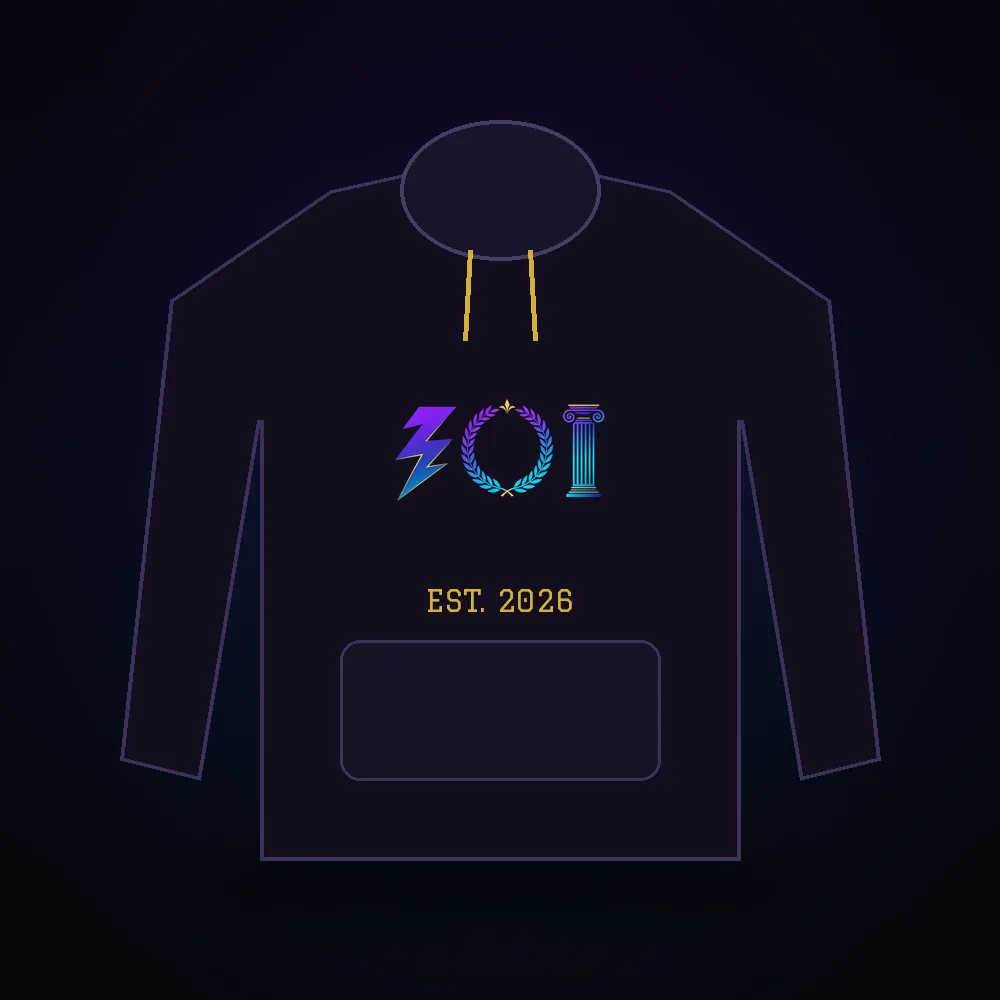
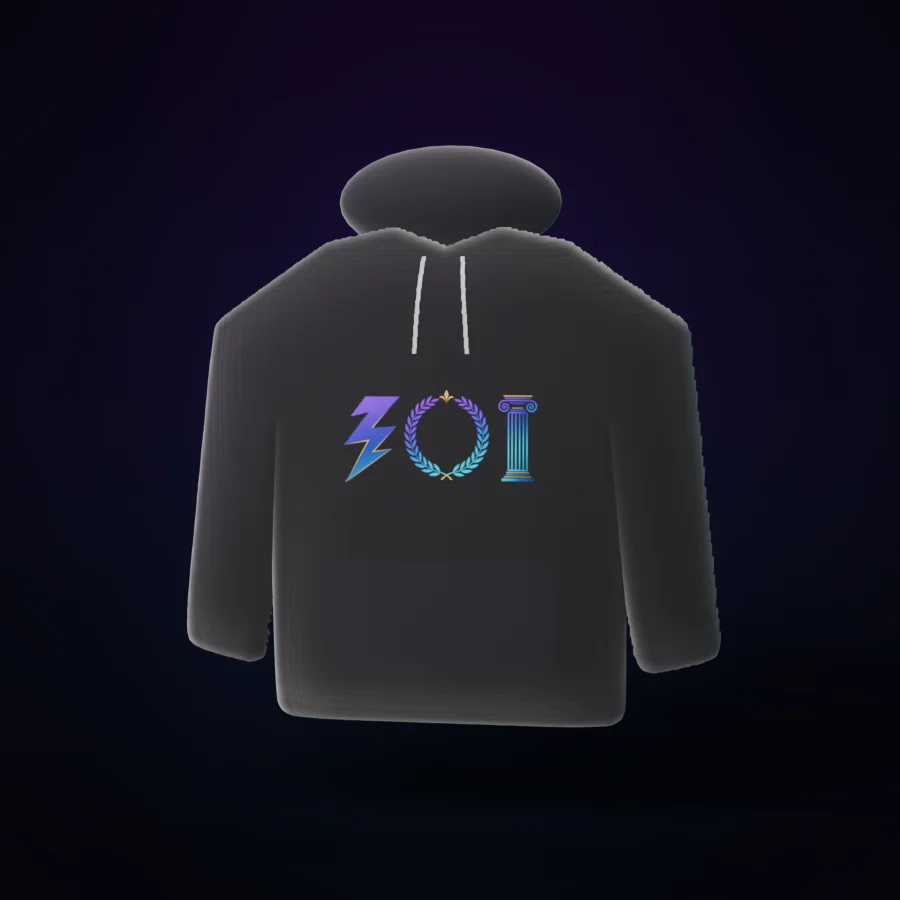
Shop: 3D-rendered product previews with real crest

diff --git a/public/shop.html b/public/shop.html
@@ -17,16 +17,16 @@
 <section class="shop-hero"><span class="est">EST. 2026</span><h2>The ZOI Shop</h2><p class="tag">Zero builds. All life. Official merch is on the way.</p></section>
 <div class="stripes" aria-hidden="true"></div>
 <section><div class="cards three products">
- <div class="card product flagship"><img src="/assets/shop/letterman.webp" alt="ZOI Letterman Jacket mockup" width="1000" height="1000"><div class="info"><span class="badge">Flagship</span><h3>ZOI Letterman Jacket</h3><p>The iconic piece. Black wool body, cream leather sleeves, gold-and-cyan striped rib collar, cuffs and waistband, chenille crest patch and EST. 2026 on the chest.</p><p class="price">Price TBA</p><button class="btn" type="button" disabled>Coming soon</button></div></div>
+ <div class="card product flagship"><img src="/assets/shop/letterman.webp" alt="ZOI Letterman Jacket mockup" width="1000" height="1000"><div class="info"><span class="badge">Flagship</span><h3>ZOI Letterman Jacket</h3><p>The iconic piece. Black wool body, cream leather sleeves, gold-and-cyan striped rib collar, cuffs and waistband, and a chenille-style crest patch on the chest.</p><p class="price">Price TBA</p><button class="btn" type="button" disabled>Coming soon</button></div></div>
  <div class="card product"><img src="/assets/shop/jersey.webp" alt="ZOI Pro Jersey mockup" width="1000" height="1000" loading="lazy"><h3>ZOI Pro Jersey</h3><p>The match-day kit. Crest up front, gold collar, cyan trim.</p><p class="price">Price TBA</p><button class="btn" type="button" disabled>Coming soon</button></div>
- <div class="card product"><img src="/assets/shop/hoodie.webp" alt="Crest Hoodie mockup" width="1000" height="1000" loading="lazy"><h3>Crest Hoodie</h3><p>Heavyweight black hoodie with the ZOI crest and EST. 2026.</p><p class="price">Price TBA</p><button class="btn" type="button" disabled>Coming soon</button></div>
- <div class="card product"><img src="/assets/shop/tee.webp" alt="Varsity Tee mockup" width="1000" height="1000" loading="lazy"><h3>Varsity Tee</h3><p>Clean white tee — ZOI wordmark and "Zero builds. All life."</p><p class="price">Price TBA</p><button class="btn" type="button" disabled>Coming soon</button></div>
- <div class="card product"><img src="/assets/shop/longsleeve.webp" alt="ZOI Varsity Long Sleeve mockup" width="1000" height="1000" loading="lazy"><h3>ZOI Varsity Long Sleeve</h3><p>Black long sleeve with gold wordmark and EST. 2026 sleeve print.</p><p class="price">Price TBA</p><button class="btn" type="button" disabled>Coming soon</button></div>
+ <div class="card product"><img src="/assets/shop/hoodie.webp" alt="Crest Hoodie mockup" width="1000" height="1000" loading="lazy"><h3>Crest Hoodie</h3><p>Heavyweight black hoodie with the full-color ZOI crest.</p><p class="price">Price TBA</p><button class="btn" type="button" disabled>Coming soon</button></div>
+ <div class="card product"><img src="/assets/shop/tee.webp" alt="Varsity Tee mockup" width="1000" height="1000" loading="lazy"><h3>Varsity Tee</h3><p>Clean white tee with the full-color ZOI crest.</p><p class="price">Price TBA</p><button class="btn" type="button" disabled>Coming soon</button></div>
+ <div class="card product"><img src="/assets/shop/longsleeve.webp" alt="ZOI Varsity Long Sleeve mockup" width="1000" height="1000" loading="lazy"><h3>ZOI Varsity Long Sleeve</h3><p>Black long sleeve with the ZOI crest and striped sleeve accents.</p><p class="price">Price TBA</p><button class="btn" type="button" disabled>Coming soon</button></div>
  <div class="card product"><img src="/assets/shop/cap.webp" alt="Snapback Cap mockup" width="1000" height="1000" loading="lazy"><h3>Snapback Cap</h3><p>Structured black snapback with the embroidered crest.</p><p class="price">Price TBA</p><button class="btn" type="button" disabled>Coming soon</button></div>
- <div class="card product"><img src="/assets/shop/mousepad.webp" alt="Desk Mousepad mockup" width="1000" height="1000" loading="lazy"><h3>Desk Mousepad</h3><p>Extended desk pad in violet-to-cyan with the full crest.</p><p class="price">Price TBA</p><button class="btn" type="button" disabled>Coming soon</button></div>
- <div class="card product"><img src="/assets/shop/tumbler.webp" alt="ZOI Insulated Tumbler mockup" width="1000" height="1000" loading="lazy"><h3>ZOI Insulated Tumbler</h3><p>40 oz stainless tumbler with handle and straw lid, crest engraved.</p><p class="price">Price TBA</p><button class="btn" type="button" disabled>Coming soon</button></div>
+ <div class="card product"><img src="/assets/shop/mousepad.webp" alt="Desk Mousepad mockup" width="1000" height="1000" loading="lazy"><h3>Desk Mousepad</h3><p>Desk pad in a violet-to-cyan fade with the full crest.</p><p class="price">Price TBA</p><button class="btn" type="button" disabled>Coming soon</button></div>
+ <div class="card product"><img src="/assets/shop/tumbler.webp" alt="ZOI Insulated Tumbler mockup" width="1000" height="1000" loading="lazy"><h3>ZOI Insulated Tumbler</h3><p>40 oz insulated tumbler with handle and straw lid, crest printed on the front.</p><p class="price">Price TBA</p><button class="btn" type="button" disabled>Coming soon</button></div>
  <div class="card product"><img src="/assets/shop/coin.webp" alt="ZOI Crest Coin mockup, front and back" width="1000" height="1000" loading="lazy"><h3>ZOI Crest Coin</h3><p>Heavyweight flip coin. Crest on the face, motto on the back. Built for queue time.</p><p class="price">Price TBA</p><button class="btn" type="button" disabled>Coming soon</button></div>
- <div class="card product"><img src="/assets/shop/stickers.webp" alt="Sticker Pack mockup" width="1000" height="1000" loading="lazy"><h3>Sticker Pack</h3><p>Crest, wordmark and ζωή die-cut stickers.</p><p class="price">Price TBA</p><button class="btn" type="button" disabled>Coming soon</button></div>
+ <div class="card product"><img src="/assets/shop/stickers.webp" alt="Sticker Pack mockup" width="1000" height="1000" loading="lazy"><h3>Sticker Pack</h3><p>Three die-cut crest stickers: white, black-and-gold and violet.</p><p class="price">Price TBA</p><button class="btn" type="button" disabled>Coming soon</button></div>
 </div>
 <div class="cards"><div class="card product flagship reverse"><img src="/assets/shop/pendant-crest.webp" alt="ZOI Iced Crest Pendant mockup" width="1000" height="1000" loading="lazy"><div class="info"><span class="badge">Featured</span><h3>ZOI Iced Crest Pendant</h3><p>The ZOI crest as one piece — lightning bolt, laurel wreath and Ionic column — pavé-set with stones in white gold-tone, on a matching chain.</p><p class="price">Price TBA</p><button class="btn" type="button" disabled>Coming soon</button></div></div></div>
 <p class="notify">Get notified when the shop drops: email <a href="mailto:hello@zoisports.com?subject=Notify%20me%20when%20the%20ZOI%20shop%20drops">hello@zoisports.com</a>.</p>
